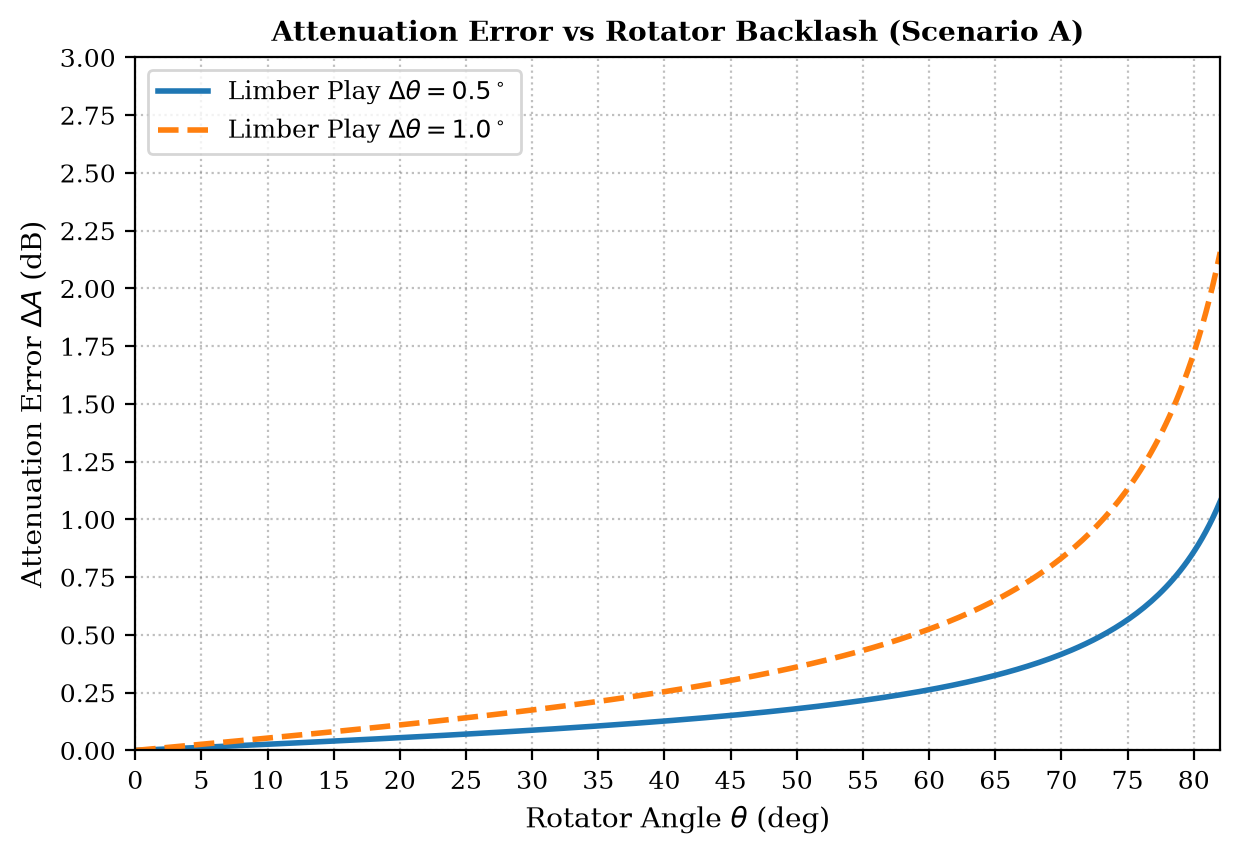
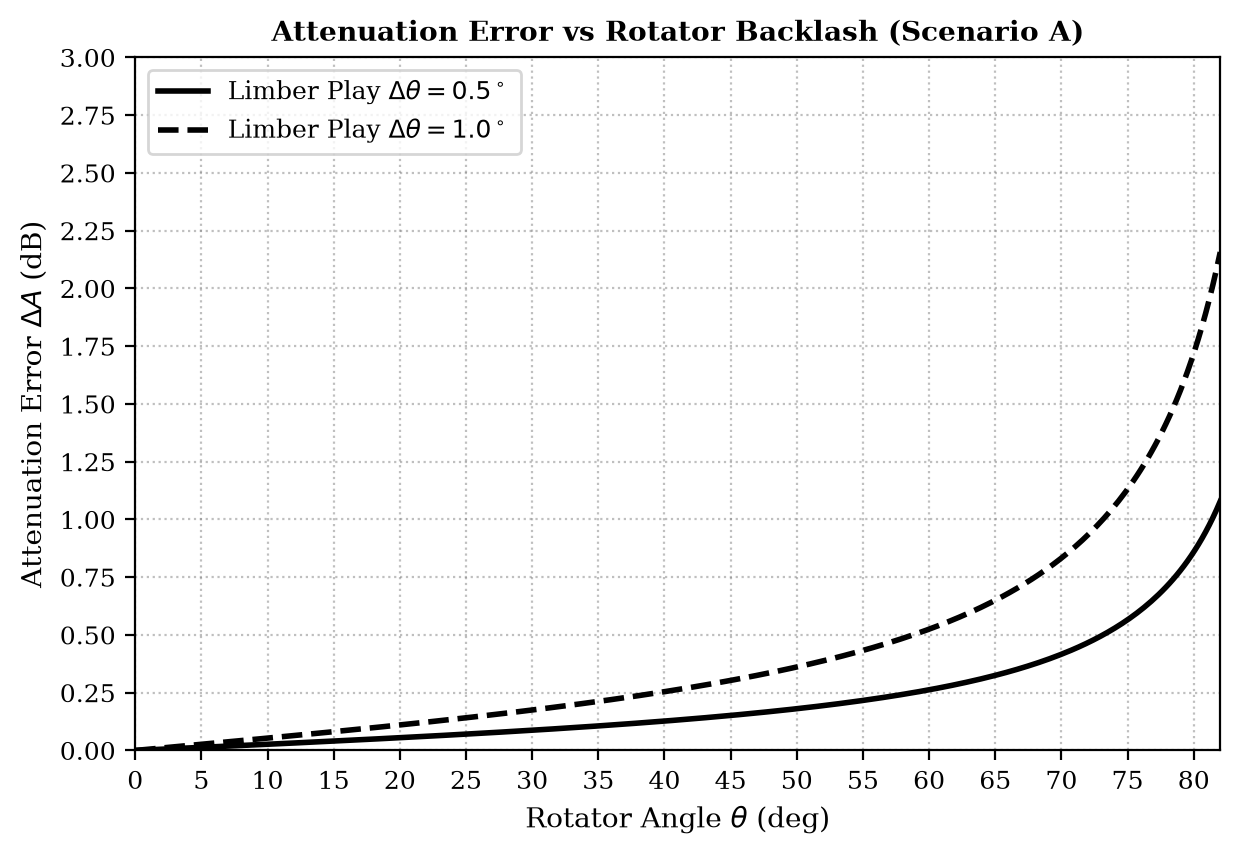
Change backlash error plot (Figure 3) line colors to black

diff --git a/src/generate_passport_plots.py b/src/generate_passport_plots.py
@@ -192,8 +192,8 @@ def generate_plots():
     err_B_05 = (40.0 / np.log(10.0)) * tan_vals * d_theta_05
     err_B_10 = (40.0 / np.log(10.0)) * tan_vals * d_theta_10
     
-    plt.plot(angles_err, err_B_05, color=c_05, linestyle='-', linewidth=2, label='Limber Play $\\Delta\\theta = 0.5^\\circ$')
-    plt.plot(angles_err, err_B_10, color=c_10, linestyle='--', linewidth=2, label='Limber Play $\\Delta\\theta = 1.0^\\circ$')
+    plt.plot(angles_err, err_B_05, color='black', linestyle='-', linewidth=2, label='Limber Play $\\Delta\\theta = 0.5^\\circ$')
+    plt.plot(angles_err, err_B_10, color='black', linestyle='--', linewidth=2, label='Limber Play $\\Delta\\theta = 1.0^\\circ$')
     
     plt.xlabel('Rotator Angle $\\theta$ (deg)', fontsize=10)
     plt.ylabel('Attenuation Error $\\Delta A$ (dB)', fontsize=10)